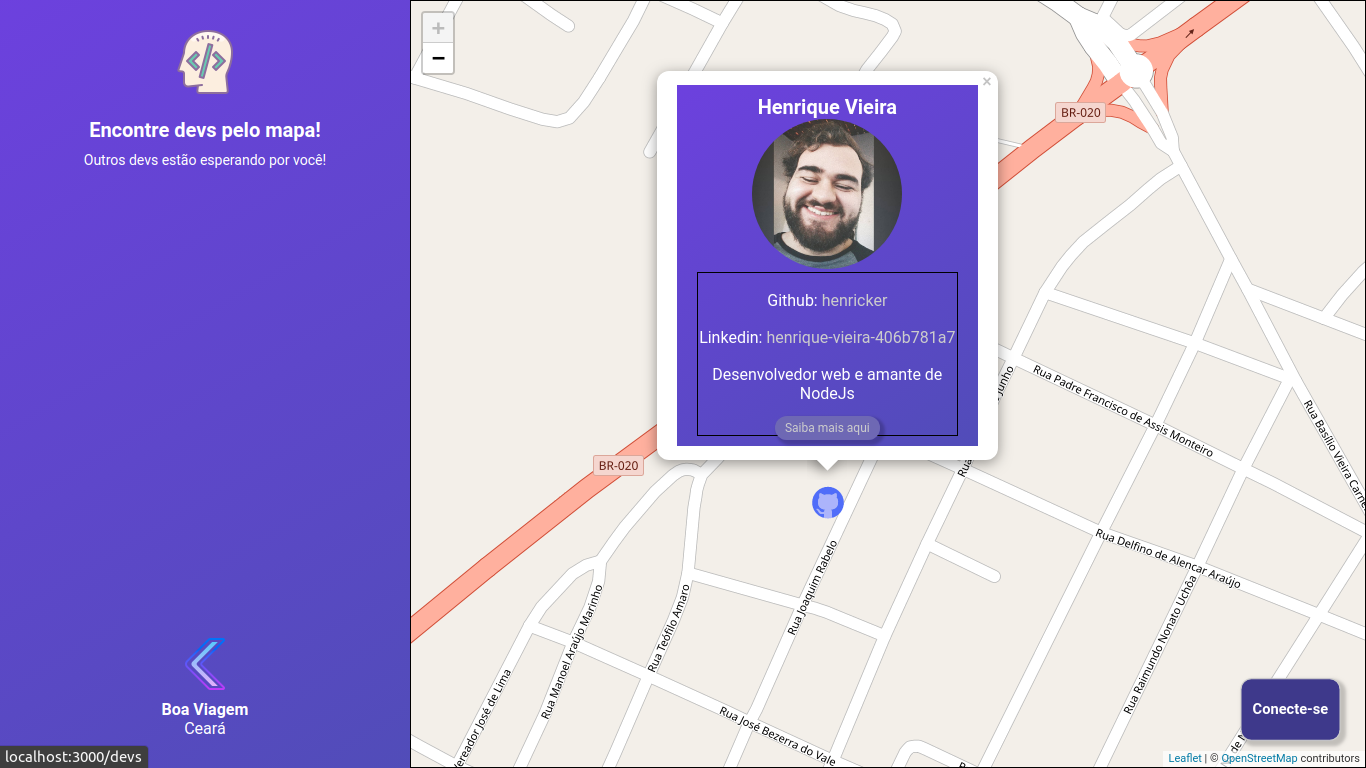
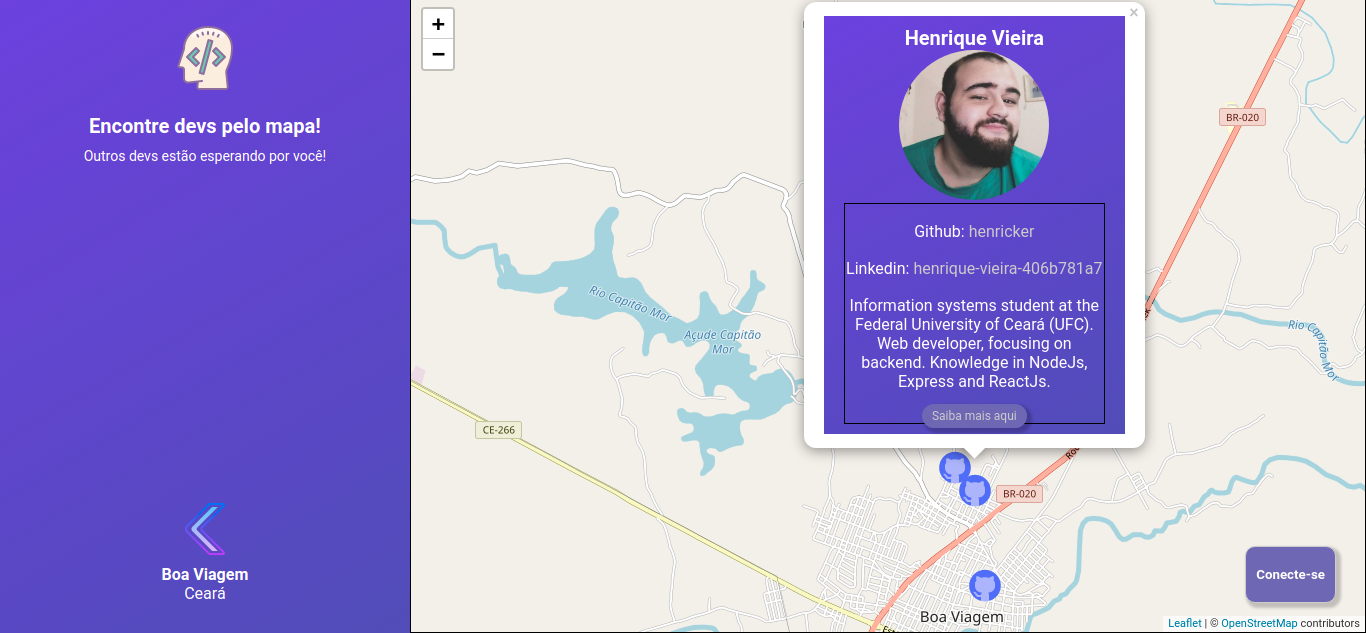
Add updates

diff --git a/web/src/pages/devMap/index.js b/web/src/pages/devMap/index.js
@@ -33,13 +33,12 @@ export default () => {
     useEffect(() => {
         function loadDevs() {
             api.get('/index').then(data => {
-                console.log(data);
-                setDevs(data.data);
+                setDevs(data.data.Devs);
             })
         }
 
         loadDevs();
-    }, [devs, setDevs]);
+    }, []);
     
     
     return (
@@ -47,28 +46,31 @@ export default () => {
         <div className="map-page">
            
             <Sidebar className="map-page-aside"/>
+            {console.log(devs[0])}
             <MapContainer center={position} zoom={16} className="map-aside">
                 <TileLayer
                 attribution='&copy; <a href="http://osm.org/copyright">OpenStreetMap</a> contributors'
                 url="https://{s}.tile.openstreetmap.org/{z}/{x}/{y}.png"
                 />
-                <Marker
-                    position={position}
+                {devs && devs.map(dev => (
+                    <Marker
+                    position={[dev.location.coordinates[0], dev.location.coordinates[1]]}
                     icon={myIcon}
                 >
                     <Popup>
                         <div className="dev-information">
-                            <h1>Henrique Vieira</h1>
-                            <img src={myPhoto} width="150" height="150" style={{display: "inline-block"}} alt="dev"></img>
+                            <h1>{dev.name}</h1>
+                            <img src={dev.avatar_url} width="150" height="150" style={{display: "inline-block"}} alt="dev"></img>
                             <div className="min-details">
-                                <p className="git">Github: <a href="https://github.com/henricker">henricker</a></p>
+                                <p className="git">Github: <a href={`https://github.com/${dev.github_username}`}>{dev.github_username}</a></p>
                                 <p className="linkedin">Linkedin: <a href="https://www.linkedin.com/in/henrique-vieira-406b781a7/">henrique-vieira-406b781a7</a></p>
-                                <p className="about">Desenvolvedor web e amante de NodeJs</p>
+                                <p className="about">{dev.bio ? dev.bio: "Dev"}</p>
                                 <a className="details-link" href="#">Saiba mais aqui</a>
                             </div>
                         </div>
                     </Popup>
                 </Marker>
+                ))}
             </MapContainer>
             <div className="map-button-component"><Link to="/createDev"><ButtonComponent content="Conecte-se"/></Link></div>
         </div>

diff --git a/web/src/pages/createDev/index.js b/web/src/pages/createDev/index.js
@@ -32,6 +32,7 @@ export default () => {
                 lat: location.coordinates.lat,
                 lng: location.coordinates.lng
             });
+            setPosition([location.coordinates.lat, location.coordinates.lng]);
         }
         else
             alert(location.error.message);
@@ -43,16 +44,16 @@ export default () => {
             <div className="form-container">
                 <form className="form-createDev">
                     <h1 className="network">Conecte-se!</h1>
-                    <label for="email">Email:</label>
+                    <label>Email:</label>
                     <div><input type="email" className="input-createDev"placeholder="Email..." name="email"/></div>
-                    <label for="github_username">Github:</label>
+                    <label>Github:</label>
                     <div><input type="text" className="input-createDev" placeholder="Github username..." name="github_username"/></div>
-                    <label for="techs">Techs:</label>
+                    <label>Techs:</label>
                     <div><input type="text" className="input-createDev" placeholder="Techs... ex: nodejs, reactjs..." name="techs"/></div>
 
                     <label>Selecione o seu endereço no mapa abaixo: </label>
                     <div className="map-createDev" >
-                        <MapContainer center={position} zoom={16} className="map-form">
+                        <MapContainer center={position} zoom={16} className="map-form" zoomControl={false}>
                         <TileLayer
                         attribution='&copy; <a href="http://osm.org/copyright">OpenStreetMap</a> contributors'
                         url="https://{s}.tile.openstreetmap.org/{z}/{x}/{y}.png"

diff --git a/web/src/pages/createDev/style.css b/web/src/pages/createDev/style.css
@@ -3,8 +3,8 @@ body {
 }
 
 .map-form {
-    width: 100%;
-    height: 40vh;
+    width: 80%;
+    height: 30vh;
     border: 1px solid black;
     display: inline-block;
     cursor: pointer;
@@ -13,7 +13,7 @@ body {
 h1.network {
     font-size: 25px;
     color: #444;
-    margin-bottom: 20px;
+    margin-bottom: 10px;
 }
 
 .form-container {
@@ -41,7 +41,7 @@ h1.network {
 .form-createDev input.input-createDev {
     padding: 10px 20px;
     width: 70%;
-    margin-bottom: 21px;
+    margin-bottom: 10px;
     border: 2px solid #ccc;
     border-radius: 30px;
     transition: .2s;

diff --git a/backend/src/index.js b/backend/src/index.js
@@ -1,5 +1,6 @@
 const express = require('express');
 const path = require('path');
+const cors = require('cors');
 const app = express();
 
 require('dotenv').config({path: path.resolve(__dirname, '..', '.env')});
@@ -8,6 +9,7 @@ require('dotenv').config({path: path.resolve(__dirname, '..', '.env')});
 const devRouter = require('./routes/dev');
 
 //app config
+    app.use(cors());
     app.use(express.json());
     app.use(devRouter);
 

diff --git a/README.md b/README.md
@@ -5,11 +5,15 @@
 - Front-End
     - [x] Index-page
     - [x] Map-page
-    - []  Create-dev-page
+    - [x]  Create-dev-page
     - []  dev-presentation-page
+    - [x] connect with backend api
 
 - Back-End
-    - Loading...
+    - [x] model Dev created
+    - [x] connect with mongo database
+    - [x] routes created
+    - [x] config to connect with others servers
 
 
 ## Index page
@@ -18,4 +22,10 @@
 ## Find devs with map
 ![Map page](./presentation/map-page.png)
 
+## Create dev page
+![Create dev](./presentation/create-dev.png)
+
 ## Loading...
+
+## Sugestões?
+- Criticism and suggestions are always welcome. If I don't respond in time, I'm sorry, as college has been a rush lately.
